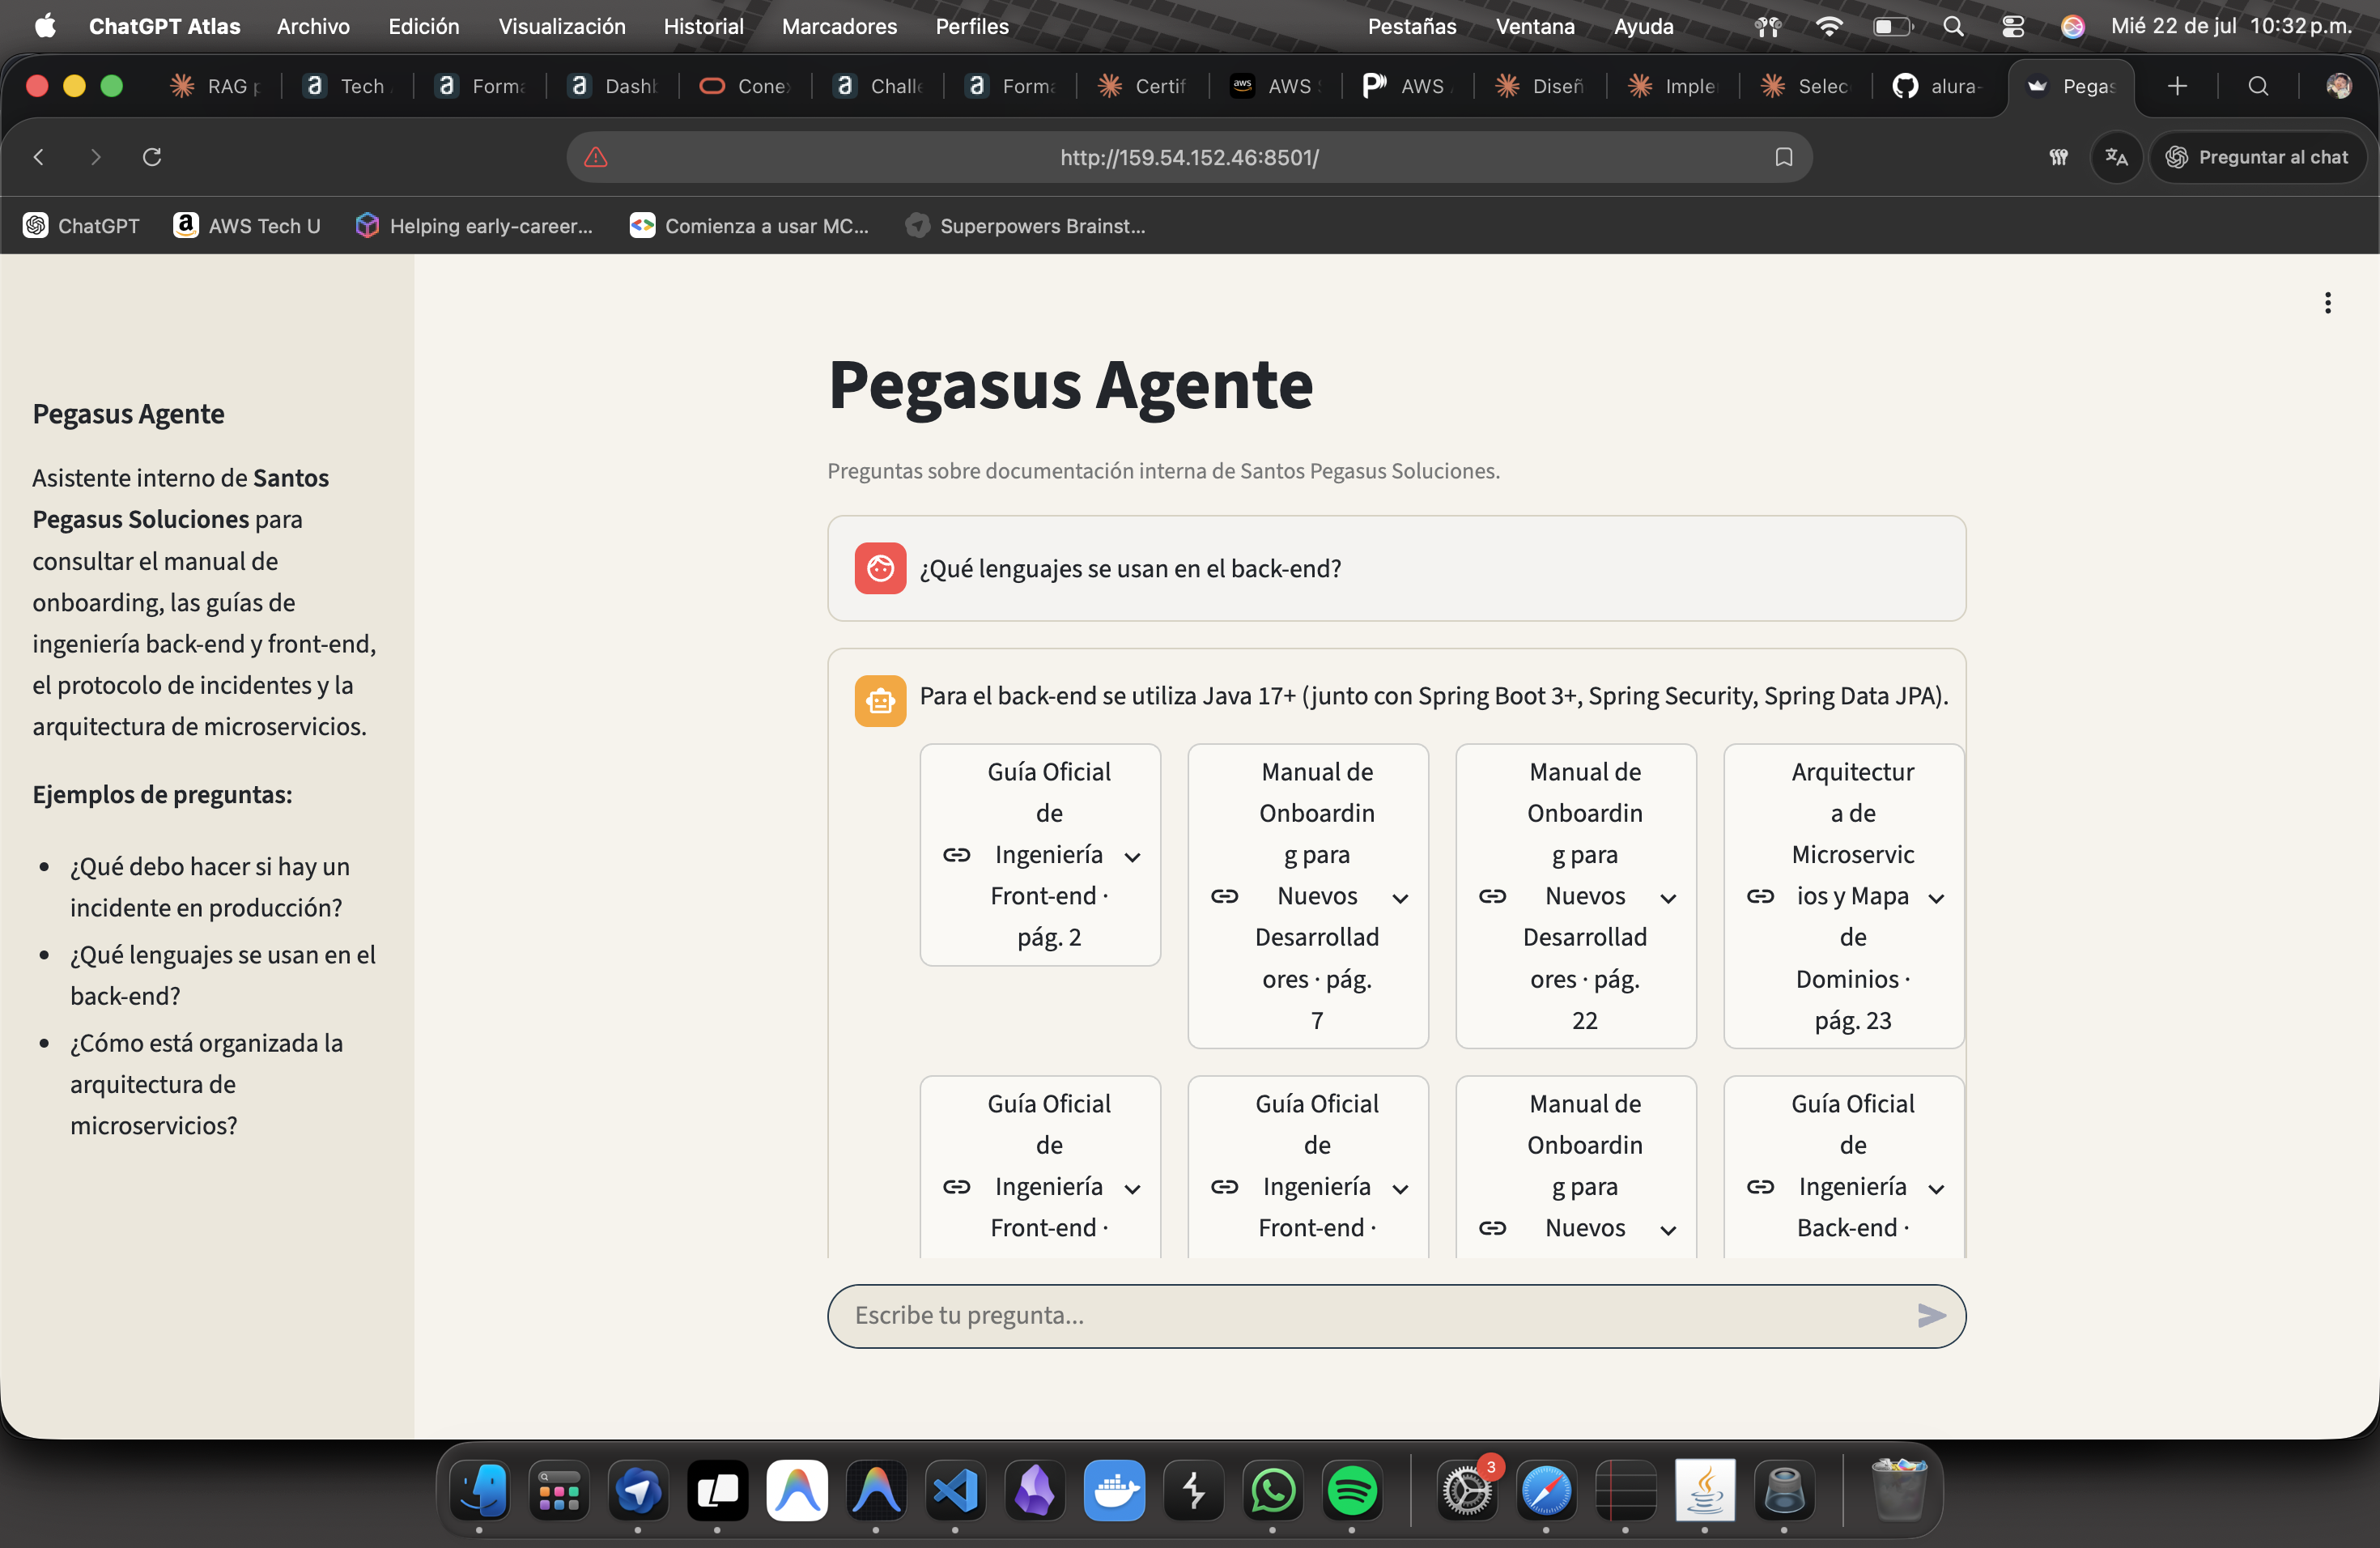
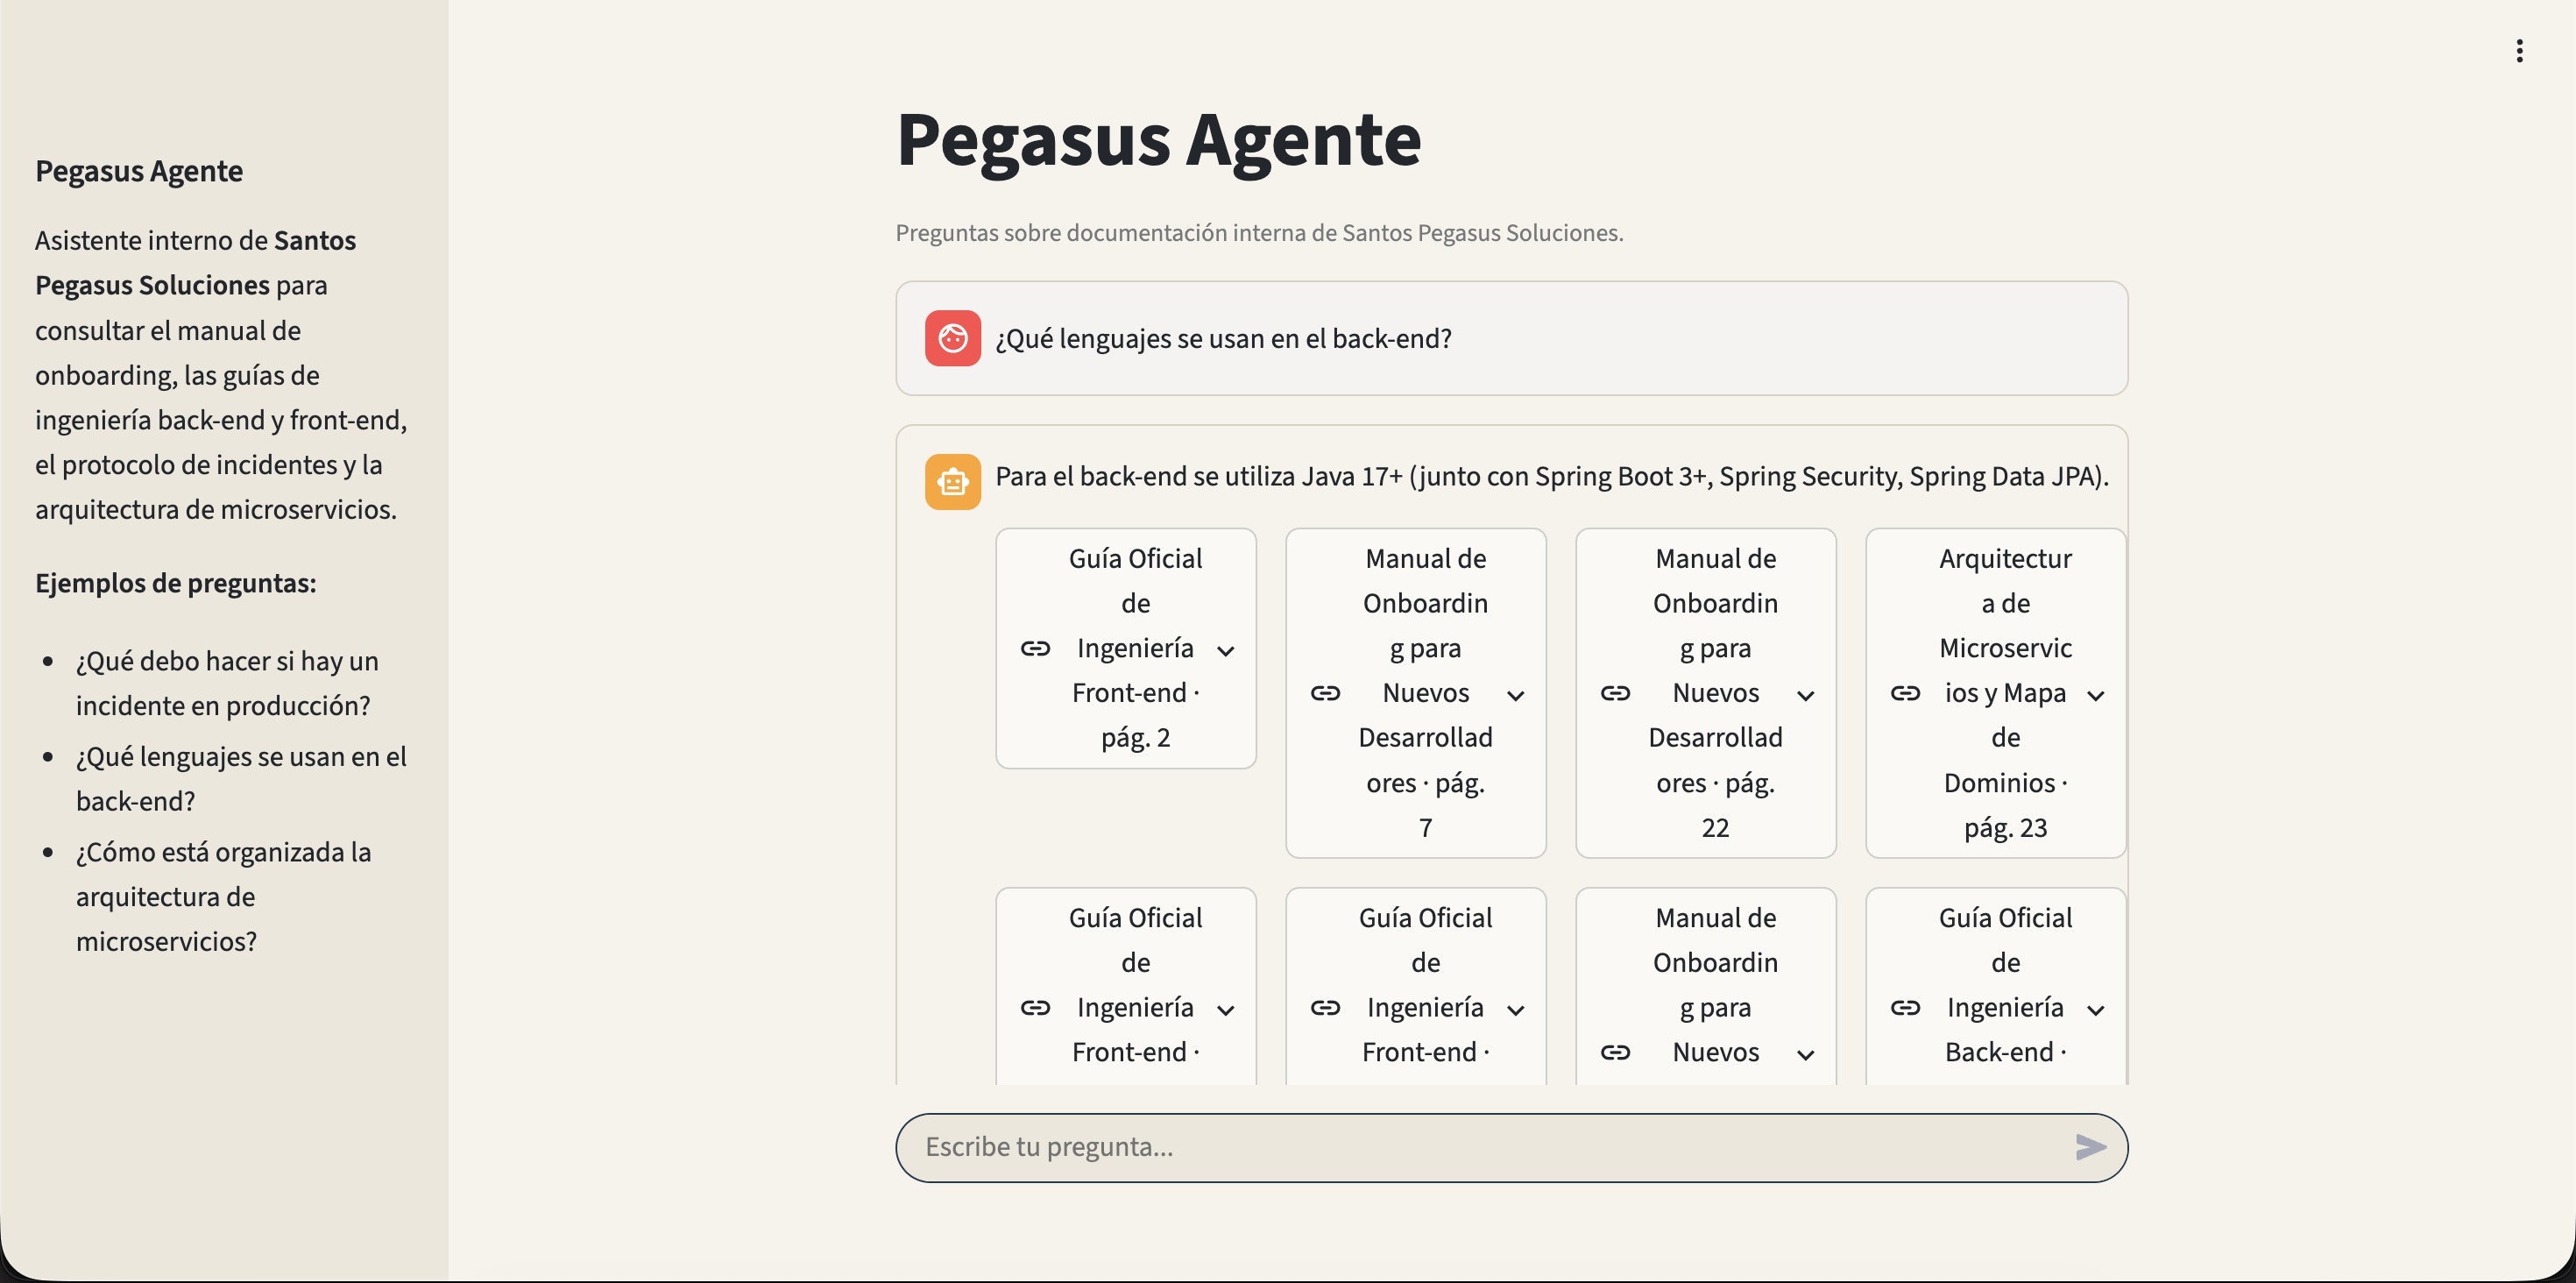
more fixes

Changed region(s): [[0.0, 0.0, 1.0, 0.7377], [0.0, 0.707, 1.0, 1.0], [0.3405, 0.2152, 0.8048, 0.6762]]

diff --git a/README.md b/README.md
@@ -51,7 +51,10 @@ cargan el índice ya guardado en `data/faiss_index/`.
 
 ## Ejemplos de preguntas y respuestas
 
-<!-- debo agregar capturas aca -->
+
+![Pegasus Agente respondiendo sobre back-end](imgs/PEGASUS_1.png)
+
+![Pegasus Agente con citas de fuente](imgs/PEGASUS_2.png)
 
 
 ## Deploy
@@ -112,6 +115,3 @@ Corre en una instancia OCI Compute (Always Free). Pasos resumidos (ver
 
 **Link público:** http://159.54.152.46:8501
 
-![Pegasus Agente respondiendo sobre back-end](imgs/PEGASUS_1.png)
-
-![Pegasus Agente con citas de fuente](imgs/PEGASUS_2.png)